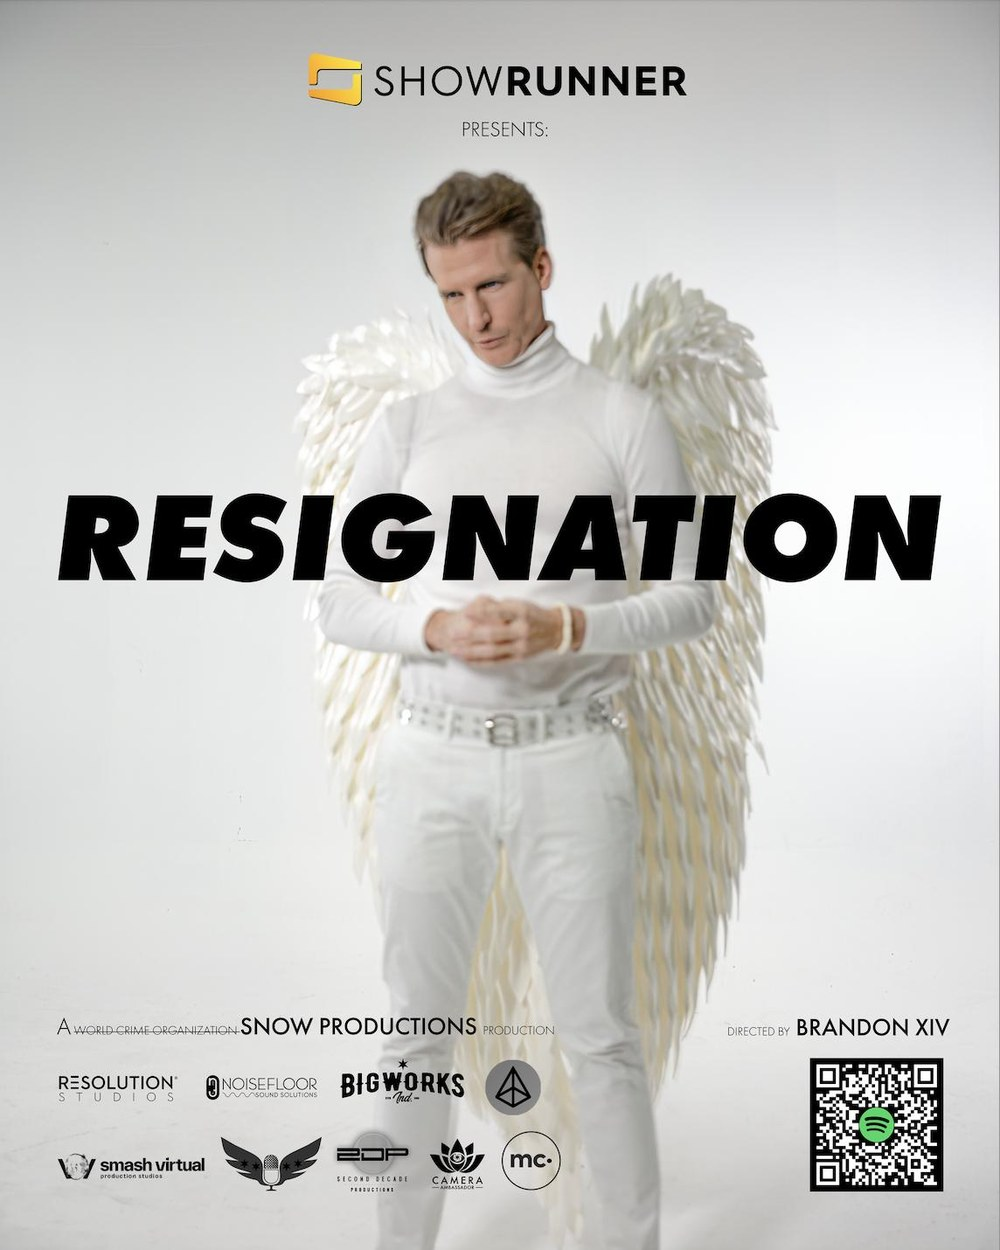
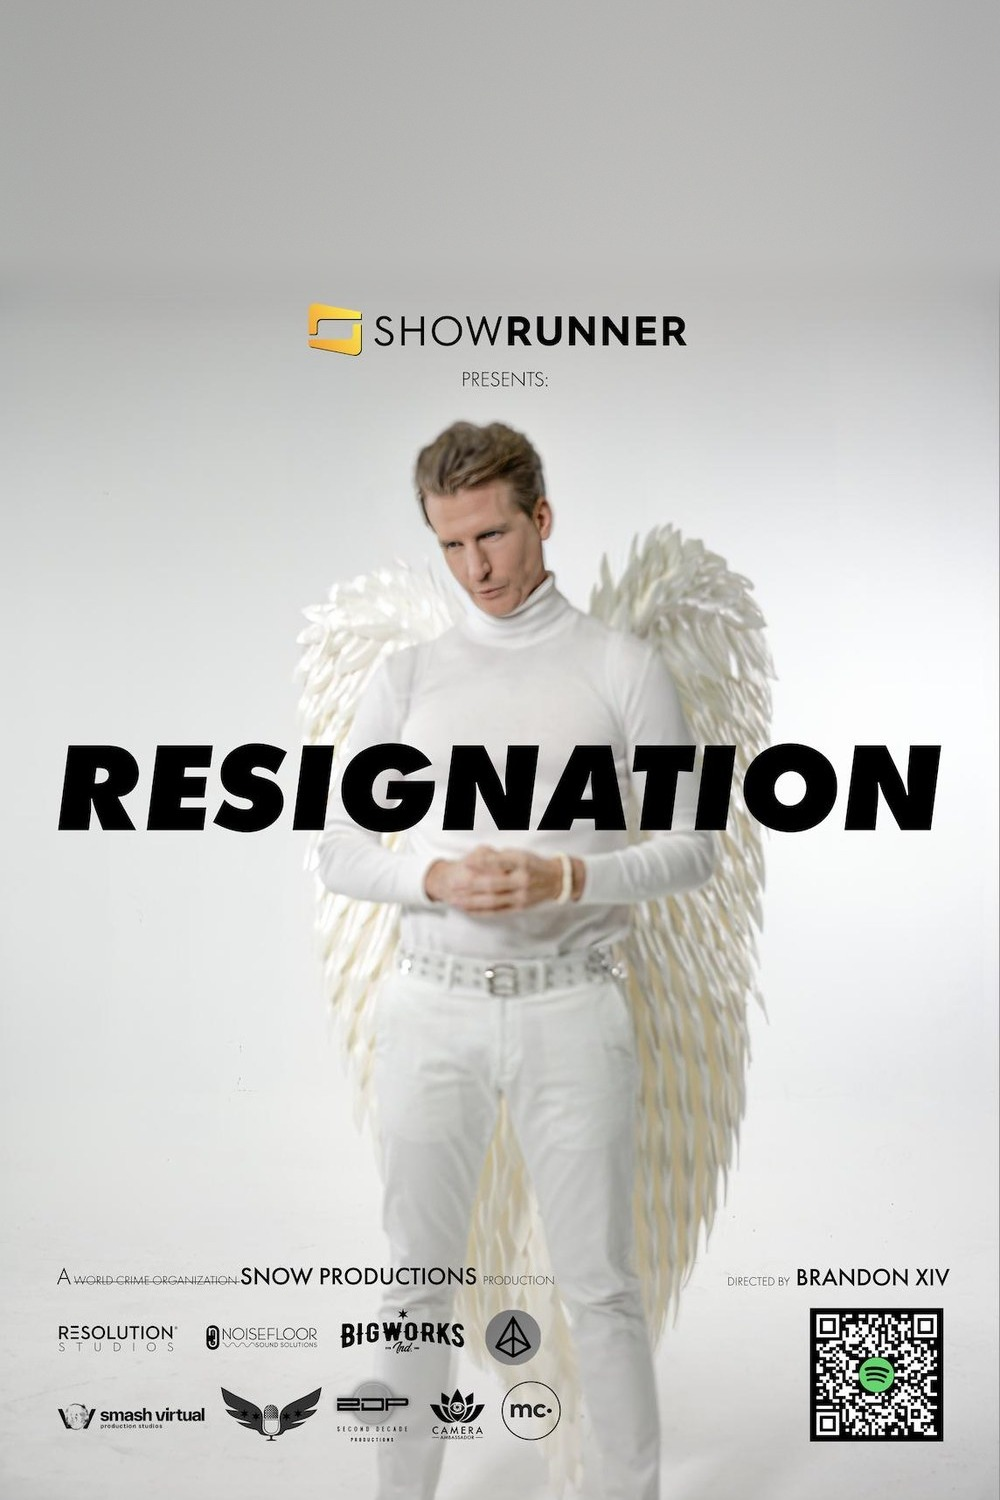
Resignation poster fills the frame
Claude-Session: https://claude.ai/code/session_01Y7w31W2jfXqm8AX8xpdm9N

diff --git a/index.html b/index.html
@@ -339,7 +339,7 @@ section{padding-block:clamp(36px,4.6vw,68px)}
         <figure class="poster"><a href="https://tubitv.com/series/300018011/storytime-with-fiona-fluff" target="_blank" rel="noopener" class="plink" aria-label="Stream on Tubi: Storytime with Fiona &amp; Fluff"><div class="pimg"><img src="img/poster-storytime.jpg" alt="Storytime with Fiona and Fluff key art" loading="lazy"></div></a><figcaption><b><a href="https://tubitv.com/series/300018011/storytime-with-fiona-fluff" target="_blank" rel="noopener">Storytime with Fiona &amp; Fluff</a></b><span>Editorial · Special · 2025</span><span class="act"><a href="https://tubitv.com/series/300018011/storytime-with-fiona-fluff" target="_blank" rel="noopener">Stream on Tubi ↗</a></span></figcaption></figure>
         <figure class="poster"><a href="https://www.youtube.com/@studiobseries6338" target="_blank" rel="noopener" class="plink" aria-label="Watch on YouTube: Studio B"><div class="pimg"><img src="img/poster-studio-b.jpg" alt="Studio B key art" loading="lazy"></div></a><figcaption><b><a href="https://www.youtube.com/@studiobseries6338" target="_blank" rel="noopener">Studio B</a></b><span>Post production · Series</span><span class="act"><a href="https://www.youtube.com/@studiobseries6338" target="_blank" rel="noopener">Watch on YouTube ↗</a> <a href="https://reelchicago.com/article/studio-b/" target="_blank" rel="noopener">Reel Chicago story ↗</a></span></figcaption></figure>
         <figure class="poster"><a href="https://youtu.be/T6EaXL-nO18" target="_blank" rel="noopener" class="plink" aria-label="Watch teaser: Donut Boyz"><div class="pimg"><img src="img/poster-donut-boyz.jpg" alt="Donut Boyz poster" loading="lazy"></div></a><figcaption><b><a href="https://youtu.be/T6EaXL-nO18" target="_blank" rel="noopener">Donut Boyz</a></b><span>Post production · Short</span><span class="act"><a href="https://youtu.be/T6EaXL-nO18" target="_blank" rel="noopener">Watch teaser ↗</a></span></figcaption></figure>
-        <figure class="poster"><a href="https://www.itsnova.com/burkie/projects/SdTR9agnCZF6" target="_blank" rel="noopener" class="plink" aria-label="Behind the scenes: Resignation"><div class="pimg" style="background:#E0E1E0"><img src="img/poster-resignation.jpg" alt="Resignation poster" loading="lazy" style="object-fit:contain"></div></a><figcaption><b><a href="https://www.itsnova.com/burkie/projects/SdTR9agnCZF6" target="_blank" rel="noopener">Resignation</a></b><span>Post production · Feature · In development</span><span class="act"><a href="https://www.itsnova.com/burkie/projects/SdTR9agnCZF6" target="_blank" rel="noopener">Behind the scenes ↗</a></span></figcaption></figure>
+        <figure class="poster"><a href="https://www.itsnova.com/burkie/projects/SdTR9agnCZF6" target="_blank" rel="noopener" class="plink" aria-label="Behind the scenes: Resignation"><div class="pimg"><img src="img/poster-resignation.jpg" alt="Resignation poster" loading="lazy"></div></a><figcaption><b><a href="https://www.itsnova.com/burkie/projects/SdTR9agnCZF6" target="_blank" rel="noopener">Resignation</a></b><span>Post production · Feature · In development</span><span class="act"><a href="https://www.itsnova.com/burkie/projects/SdTR9agnCZF6" target="_blank" rel="noopener">Behind the scenes ↗</a></span></figcaption></figure>
       </div>
     </div>
   </section>

diff --git a/resume/index.html b/resume/index.html
@@ -324,7 +324,7 @@ h3{font-family:var(--serif);font-weight:700;font-size:clamp(30px,3.2vw,50px);lin
         <figure class="credit" data-k="series"><a class="pimg" href="https://tubitv.com/series/300018011/storytime-with-fiona-fluff" target="_blank" rel="noopener"><img src="../img/poster-storytime.jpg" alt="Storytime with Fiona and Fluff key art" loading="lazy"></a><figcaption><b>Storytime with Fiona &amp; Fluff</b><small>Editorial · Special · 2025</small><span class="go"><a class="redlink" href="https://tubitv.com/series/300018011/storytime-with-fiona-fluff" target="_blank" rel="noopener">Stream ↗</a></span></figcaption></figure>
         <figure class="credit" data-k="series"><a class="pimg" href="https://www.youtube.com/@studiobseries6338" target="_blank" rel="noopener"><img src="../img/poster-studio-b.jpg" alt="Studio B key art" loading="lazy"></a><figcaption><b>Studio B</b><small>Post production · Series</small><span class="go"><a class="redlink" href="https://www.youtube.com/@studiobseries6338" target="_blank" rel="noopener">Watch ↗</a><a class="redlink" href="https://reelchicago.com/article/studio-b/" target="_blank" rel="noopener">Read ↗</a></span></figcaption></figure>
         <figure class="credit" data-k="film"><a class="pimg" href="https://youtu.be/T6EaXL-nO18" target="_blank" rel="noopener"><img src="../img/poster-donut-boyz.jpg" alt="Donut Boyz poster" loading="lazy"></a><figcaption><b>Donut Boyz</b><small>Post production · Short</small><span class="go"><a class="redlink" href="https://youtu.be/T6EaXL-nO18" target="_blank" rel="noopener">Watch teaser ↗</a></span></figcaption></figure>
-        <figure class="credit" data-k="film"><a class="pimg" href="https://www.itsnova.com/burkie/projects/SdTR9agnCZF6" target="_blank" rel="noopener" style="background:#E0E1E0"><img src="../img/poster-resignation.jpg" alt="Resignation poster" loading="lazy" style="object-fit:contain"></a><figcaption><b>Resignation</b><small>Post production · Feature · In development</small><span class="go"><a class="redlink" href="https://www.itsnova.com/burkie/projects/SdTR9agnCZF6" target="_blank" rel="noopener">Behind the scenes ↗</a></span></figcaption></figure>
+        <figure class="credit" data-k="film"><a class="pimg" href="https://www.itsnova.com/burkie/projects/SdTR9agnCZF6" target="_blank" rel="noopener"><img src="../img/poster-resignation.jpg" alt="Resignation poster" loading="lazy"></a><figcaption><b>Resignation</b><small>Post production · Feature · In development</small><span class="go"><a class="redlink" href="https://www.itsnova.com/burkie/projects/SdTR9agnCZF6" target="_blank" rel="noopener">Behind the scenes ↗</a></span></figcaption></figure>
       </div>
       <p class="brands"><b>Brands:</b> Whirlpool, McDonald's, State Farm, Miller Lite, the Chicago Bulls, Coors Light, Foot Locker, JBL, Icy Hot.</p>
     </section>
